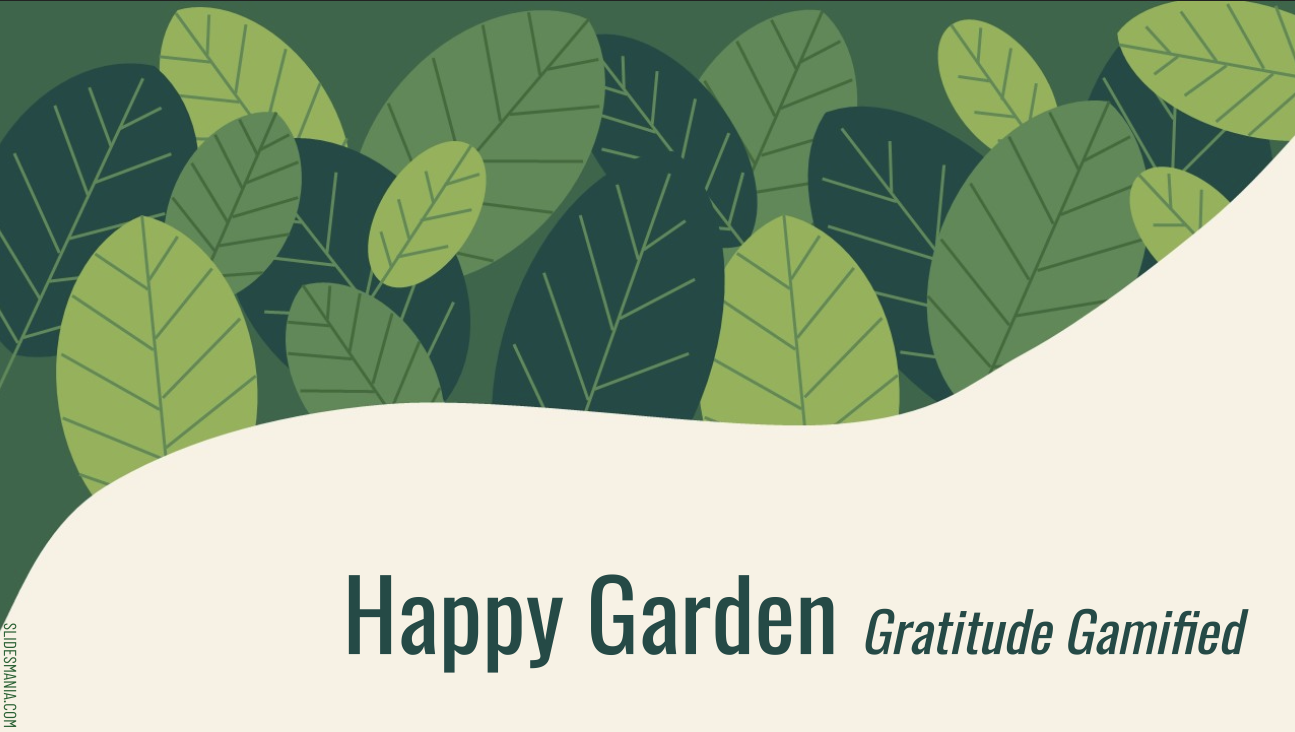
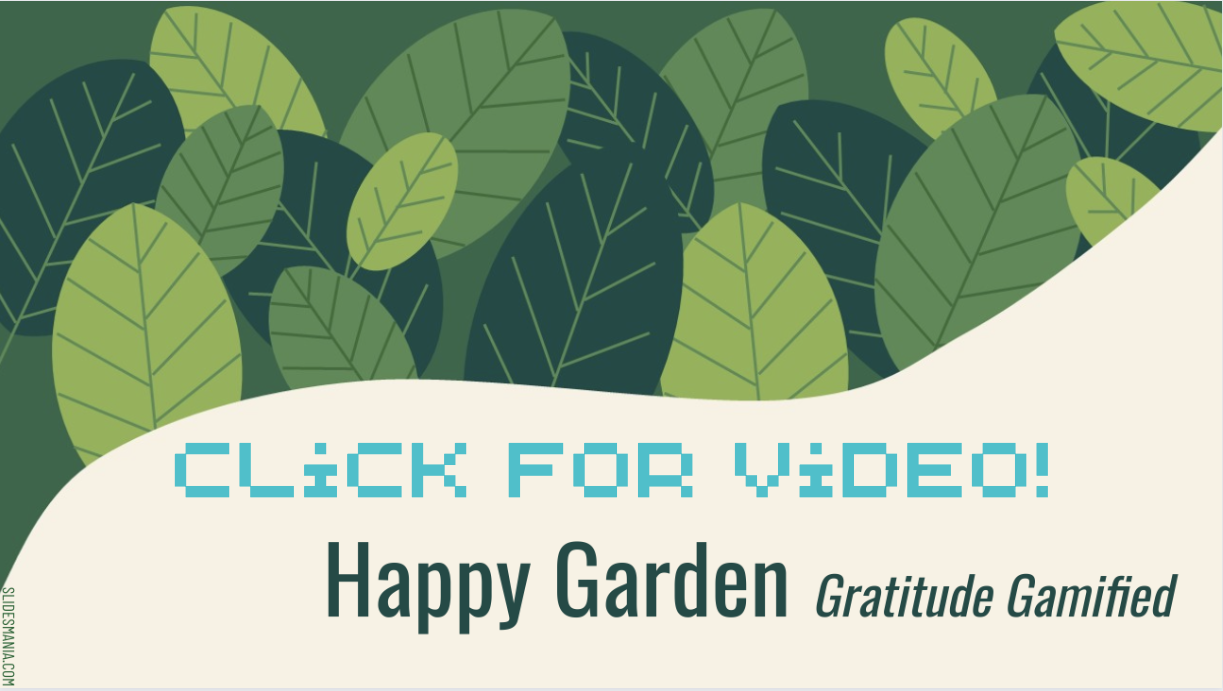
added videos and LinkedIn

diff --git a/README.md b/README.md
@@ -20,7 +20,7 @@ Link to project: [HAPPY GARDEN](https://elsalvadordali.github.io/green-smile/)
 - Github Pages
 - Discord, Figma
 
-~~Drag and Drop TechStack Video here~~
+[![Tech Stack](./images/hg-techstack.png)](https://youtu.be/LPeEEpkY610)
 
 ## Our Goal:
 
@@ -32,18 +32,19 @@ Link to project: [HAPPY GARDEN](https://elsalvadordali.github.io/green-smile/)
 ## Product Demo:
 
 ~~Drag and Drop Demo Video here~~
+[![Demo](./images/hg-demo.png)](https://youtu.be/e9GxeP1PMg0)
 
 ## Takeaways:
 
-Happy Garden was built for the GDI Hackathon 2022 - Hack for Health! We were given 48hours to start and accomplish the project.
-All of the team members are first time hackers and it has proven to be challenging, and a rewarding experience for us! The Happy Garden app won and landed thrid place!
+Happy Garden was built for the GDI Hackathon 2022 - Hack for Health! We were given 48 hours to start and accomplish the project.
+All team members are first-time hackers, which has proven to be challenging and a rewarding experience for us! The Happy Garden app won and landed third place!
 2 days after deployment, it has already garnered almost 100 users!
 
-Team members are mostly front-end developers and that led us to take different roles and learn new technologies.
+Team members are mostly front-end developers, leading us to take on different roles and learn new technologies.
 
 ## Planned Features:
 
-Happy Garden is open-sourced and <a href="./Contribute.md">Contirbutors</a> are welcome!
+Happy Garden is open-source and <a href="./Contribute.md">Contributors</a> are welcome!
 
 - Desktop optimization
 - Monthly calendar views
@@ -59,5 +60,5 @@ Happy Garden is open-sourced and <a href="./Contribute.md">Contirbutors</a> are 
 - 👸🏼 Connect with JODI KIDNEIGH on [LinkedIn]() and [GitHub](https://github.com/JodiKidneigh)
 - 👸🏼 Connect with EMILY LIN on [LinkedIn]() and [GitHub]()
 - 👸🏼 Connect with JOLENE KEARSE on [LinkedIn](https://www.linkedin.com/in/jolene-kearse-2562ba218/) and [GitHub](https://github.com/JoleneKearse)
-- 👸🏼 Connect with LE PHAM on [LinkedIn]() and [GitHub](https://github.com/leTpham)
+- 👸🏼 Connect with LE PHAM on [LinkedIn](https://www.linkedin.com/in/letpham/) and [GitHub](https://github.com/leTpham)
 - 👸🏼 Connect with EMPATH LIFE on [LinkedIn]() and [GitHub]()
